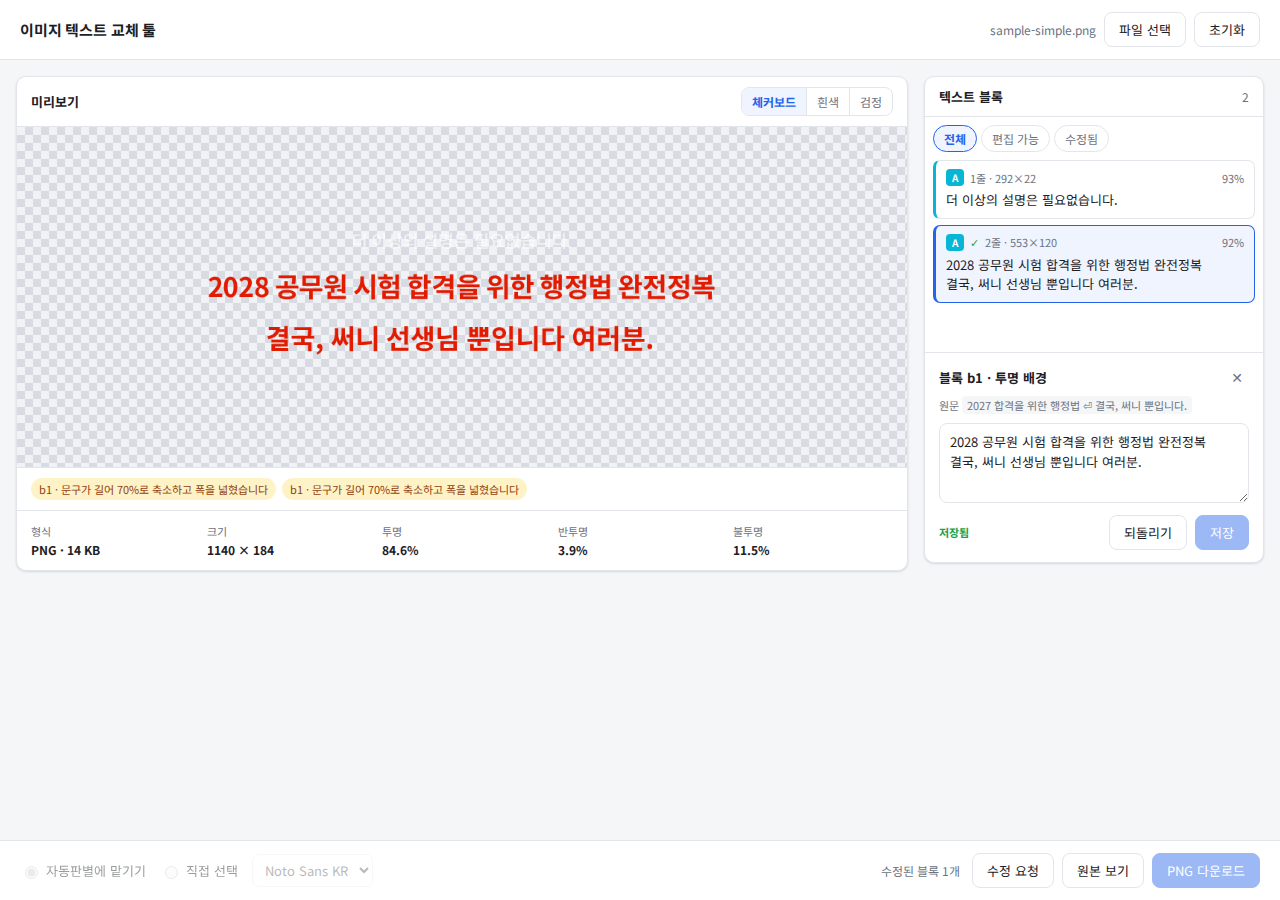
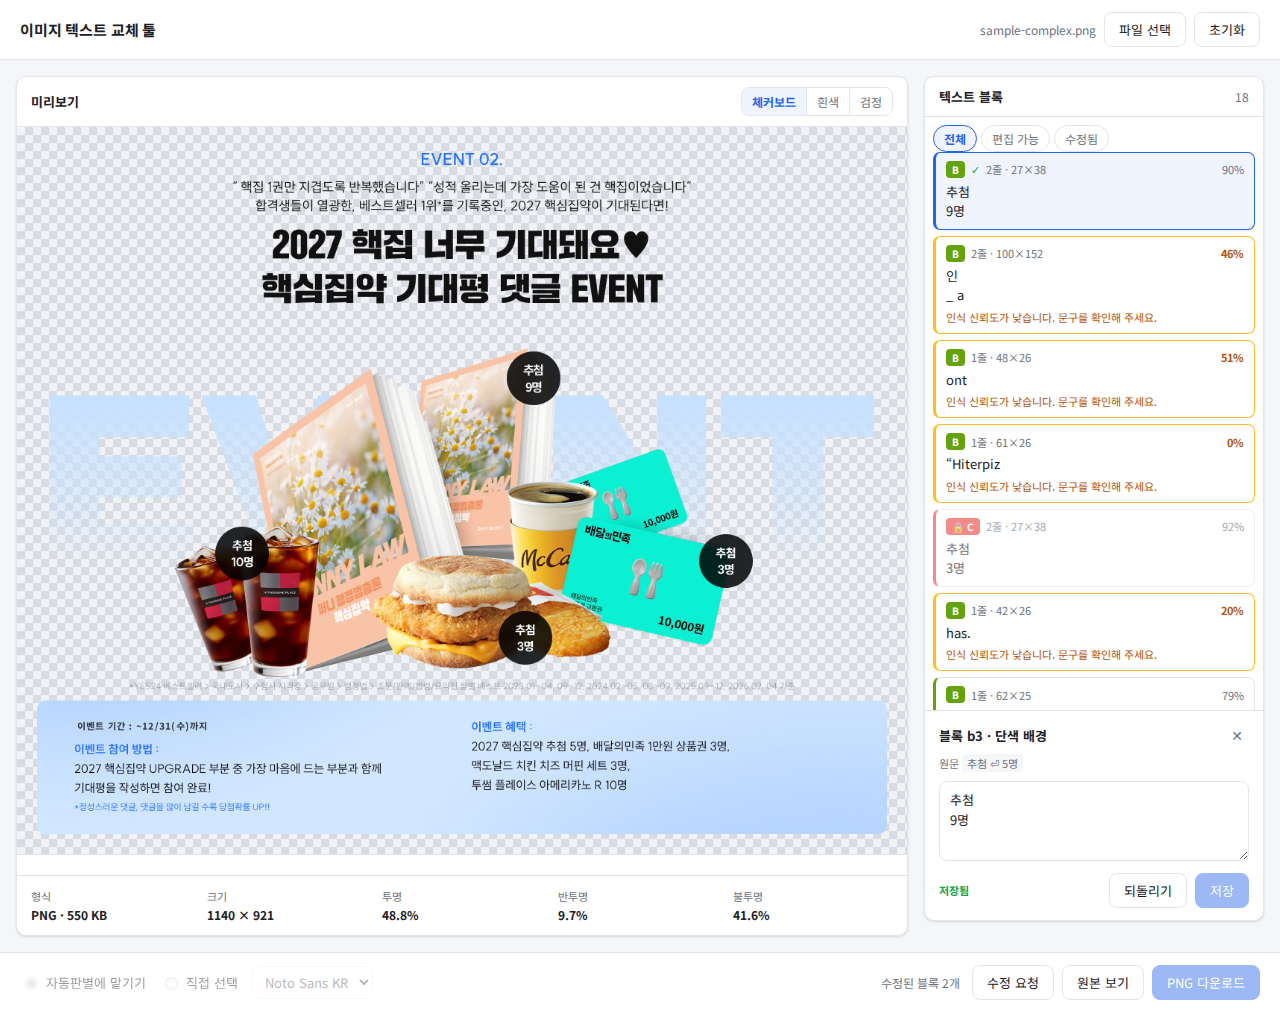
feat(M4.5): 합성 (유형 B) — 단색 배경 복원
파란 정보 박스와 검은 원 배지가 교체되고, 채운 자리에 이음매가 보이지
않는다. 검사 7건 전부 통과.

계획서의 "대표색 하나로 채우기"는 실물에서 통하지 않았다. 13장에 적어둔
리스크대로 파란 정보 박스가 완전 단색이 아니라 위치에 따라 RGB가 10 남짓
변해서, 한 색으로 칠하면 그 자리가 띠처럼 도드라진다. 줄 단위로 좌우
배경을 찾아 선형 보간하는 방식으로 바꿨다. 배경이 균일하면 대표색 채우기와
결과가 같고, 변하면 그 변화를 따라간다.

페더링은 넣지 않았다. 제거 마스크가 잉크보다 2px 부풀려져 있어 경계 바깥은
이미 순수 배경이고 채우는 값도 그 배경에서 보간한 색이라, 섞을 경계 자체가
없다.

색 추출 재수정:
- v0.7의 "배경과의 거리에 비례한 가중치"는 방향은 맞았지만 부족했다. 경계
  픽셀이 여전히 절반 넘는 무게를 받아 검은 원 위 흰 글자가 rgb(195,194,194)
  회색으로 잡혔다. 최대 거리의 65% 이상인 코어 픽셀만 쓰도록 바꾸니
  rgb(249,249,249) 로 정확해졌다
- 불투명도 승계는 유형 A에서만 한다. 유형 B는 불투명 배경 위에 그리므로
  알파를 낮추면 배경이 비쳐 색이 흐려진다

새 한계: 한 줄에 색이 두 가지면(파란 라벨 + 검은 값) 지배적인 색으로
통일된다. 줄 안에서 색으로 다시 쪼개는 것은 이번 버전 비목표다.

Claude-Session: https://claude.ai/code/session_018kgwYgKVhZt5kDDopb9ULA

diff --git a/js/compose.js b/js/compose.js
@@ -1,7 +1,9 @@
 /* compose.js — 글자 제거 · 렌더 · 합성 · 오버플로
  * PLAN.md 7-5, 7-6, 7-8
  *
- * M4는 유형 A(투명 배경)만 처리한다. 유형 B(단색 배경 채우기)는 M4.5.
+ * 유형 A(투명 배경)는 알파를 0으로, 유형 B(단색 배경)는 배경을 복원해 지운다.
+ * 그 외 경로(색 추출·피팅·자간·오버플로·렌더)는 두 유형이 전부 공유한다.
+ *
  * 수정하지 않은 블록은 손대지 않는다. 전 블록을 재렌더하면 사용자가 건드리지도
  * 않은 문구까지 폰트 근사 오차로 열화된다(7-6).
  */
@@ -16,24 +18,94 @@ const Compose = (() => {
   const MIN_SCALE = 0.7;    // 오버플로 2단계: 폰트 축소 하한
   const ALIGN_TOL = 4;      // 정렬 추정 허용 오차(px)
   const TRACK_MAX = 0.15;   // 자간 상한 (폰트 크기 대비)
+  const INK_FAR = 96;       // 유형 B 잉크 판정: 배경색과의 채널 절대차 합
+  const ANCHOR_MAX = 60;    // 배경 보간 시 좌우로 찾아볼 최대 거리(px)
 
-  /* ---------- 7-5 글자 제거 (유형 A) ---------- */
+  /* ---------- 7-5 글자 제거 ---------- */
 
-  function eraseBlock(d, W, H, block) {
+  /** 블록 안에서 글자 픽셀을 찾아 DILATE 만큼 부풀린 제거 마스크를 만든다.
+   *  안티에일리어싱 잔상이 남지 않도록 부풀리는 것이 핵심이다. */
+  function removalMask(d, W, H, block) {
     const {x0, y0, x1, y1} = block.bbox;
-    const del = [];
+    const bg = block.bgColor;
+    const m = new Uint8Array(W * H);
+    const isInk = (i) => block.tier === 'A'
+      ? d[i + 3] > ALPHA_T
+      : d[i + 3] > 200 && Math.abs(d[i] - bg[0]) + Math.abs(d[i + 1] - bg[1])
+        + Math.abs(d[i + 2] - bg[2]) > INK_FAR;
+
     for (let y = y0; y < y1; y++) {
       for (let x = x0; x < x1; x++) {
-        if (d[(y * W + x) * 4 + 3] <= ALPHA_T) continue;
+        if (!isInk((y * W + x) * 4)) continue;
         for (let dy = -DILATE; dy <= DILATE; dy++) {
           for (let dx = -DILATE; dx <= DILATE; dx++) {
             const nx = x + dx, ny = y + dy;
-            if (nx >= 0 && ny >= 0 && nx < W && ny < H) del.push(ny * W + nx);
+            if (nx >= 0 && ny >= 0 && nx < W && ny < H) m[ny * W + nx] = 1;
           }
         }
       }
     }
-    for (const i of del) d[i * 4 + 3] = 0;
+    return m;
+  }
+
+  /** 유형 A — 알파를 0으로. 배경 복원이 필요 없다. */
+  function eraseTransparent(d, W, mask) {
+    for (let i = 0; i < mask.length; i++) if (mask[i]) d[i * 4 + 3] = 0;
+  }
+
+  /**
+   * 유형 B — 배경을 복원해 덮는다.
+   *
+   * 계획서는 "대표색 하나로 채우기"였지만, 실측상 단색 배경도 위치에 따라 RGB가
+   * 10 남짓 변한다(파란 정보 박스). 한 색으로 칠하면 그 자리가 띠처럼 보인다.
+   * 대신 **줄 단위로 좌우 배경을 찾아 선형 보간**한다. 배경이 균일하면 결과가
+   * 대표색 채우기와 같아지고, 변하면 그 변화를 따라간다.
+   */
+  function erasePaint(d, W, H, mask, block) {
+    const {x0, y0, x1, y1} = block.bbox;
+    const bg = block.bgColor || [255, 255, 255];
+    const px = (x, y) => (y * W + x) * 4;
+
+    // 좌우로 마스크 밖 배경 픽셀을 찾는다. 못 찾으면 대표색으로 물러선다.
+    const anchor = (y, from, dir) => {
+      for (let k = 1; k <= ANCHOR_MAX; k++) {
+        const x = from + dir * k;
+        if (x < 0 || x >= W) break;
+        if (!mask[y * W + x]) {
+          const i = px(x, y);
+          if (d[i + 3] > 200) return [d[i], d[i + 1], d[i + 2]];
+        }
+      }
+      return null;
+    };
+
+    const pad = DILATE;
+    for (let y = Math.max(0, y0 - pad); y < Math.min(H, y1 + pad); y++) {
+      let x = Math.max(0, x0 - pad);
+      const end = Math.min(W, x1 + pad);
+      while (x < end) {
+        if (!mask[y * W + x]) { x++; continue; }
+        let run = x;
+        while (run < end && mask[y * W + run]) run++;
+        const L = anchor(y, x, -1) || bg;
+        const R = anchor(y, run - 1, 1) || L;
+        for (let k = x; k < run; k++) {
+          const t = run - x > 1 ? (k - x) / (run - x - 1) : 0;
+          const i = px(k, y);
+          d[i]     = Math.round(L[0] + (R[0] - L[0]) * t);
+          d[i + 1] = Math.round(L[1] + (R[1] - L[1]) * t);
+          d[i + 2] = Math.round(L[2] + (R[2] - L[2]) * t);
+          d[i + 3] = 255;
+        }
+        x = run;
+      }
+    }
+  }
+
+  function eraseBlock(d, W, H, block) {
+    const mask = removalMask(d, W, H, block);
+    if (block.tier === 'A') eraseTransparent(d, W, mask);
+    else erasePaint(d, W, H, mask, block);
   }
 
   /* ---------- 7-6 측정 · 피팅 ---------- */
@@ -167,11 +239,12 @@ const Compose = (() => {
     const targets = blocks.filter((b) => b.dirty && !b.locked);
     const notes = [];
 
-    // 유형 B 는 M4.5. 지금은 건드리지 않고 사유만 남긴다.
-    const deferred = targets.filter((b) => b.tier !== 'A');
-    const doable = targets.filter((b) => b.tier === 'A');
-    for (const b of deferred) {
-      notes.push({id: b.id, level: 'skip', text: '단색 배경 합성은 아직 지원하지 않습니다 (M4.5)'});
+    // 유형 B 인데 배경색을 못 구한 블록은 지울 방법이 없다.
+    const doable = targets.filter((b) => b.tier === 'A' || b.bgColor);
+    for (const b of targets) {
+      if (!doable.includes(b)) {
+        notes.push({id: b.id, level: 'skip', text: '배경색을 찾지 못해 교체할 수 없습니다'});
+      }
     }
 
     for (const b of doable) eraseBlock(out.data, W, H, b);
@@ -235,7 +308,9 @@ const Compose = (() => {
     g.addColorStop(0, `rgb(${block.colorTop.join(',')})`);
     g.addColorStop(1, `rgb(${block.colorBottom.join(',')})`);
     ctx.fillStyle = g;
-    ctx.globalAlpha = block.opacity ?? 1;    // 원본이 반투명 글자면 그대로 물려받는다
+    // 유형 A는 원본이 반투명 글자면 그대로 물려받는다. 유형 B는 이미 불투명
+    // 배경 위에 그리므로 알파를 낮추면 배경이 비쳐 색이 흐려진다.
+    ctx.globalAlpha = block.tier === 'A' ? (block.opacity ?? 1) : 1;
     ctx.fillText(text, x, y);
     ctx.globalAlpha = 1;
   }

diff --git a/tools/compose-probe.js b/tools/compose-probe.js
@@ -84,6 +84,47 @@ const CASES = [
     console.log(`       조치: ${r.notes.length ? r.notes.map((n) => n.text).join(' / ') : '없음'}`);
   }
 
+  // ---- 유형 B (단색 배경) ----
+  console.log('\n[유형 B — 단색 배경 채우기]');
+  await page.goto(`http://127.0.0.1:${PORT}/index.html`);
+  await page.setInputFiles('#fileInput', path.join(ROOT, 'assets/sample-complex.png'));
+  await page.waitForFunction(() => window.__app.state.imageData && !window.__app.state.analyzing,
+    null, {timeout: 300000});
+
+  const rb = await page.evaluate(async () => {
+    const app = window.__app, s = app.state;
+    // 파란 정보 박스 한 줄과 검은 원 배지를 함께 고친다.
+    const edits = [
+      {tier: 'B', match: /이벤트 기간/, text: '이벤트 기간 : ~12/31(수)까지'},
+      {tier: 'B', match: /추첨/, text: '추첨\n9명'},
+    ];
+    const done = [];
+    for (const e of edits) {
+      const b = s.blocks.find((x) => x.tier === e.tier && !x.locked && e.match.test(x.originalText || ''));
+      if (!b) continue;
+      app.selectBlock(b.id);
+      b.draft = e.text;
+      app.saveBlock();
+      done.push({id: b.id, from: b.originalText, to: e.text, bg: b.bgColor, box: b.bbox});
+    }
+    await app.runCompose();
+
+    const c2 = document.createElement('canvas');
+    c2.width = s.imageData.width; c2.height = s.imageData.height;
+    c2.getContext('2d').drawImage(s.result, 0, 0);
+    return {edits: done, notes: s.composeNotes, ms: s.timing.compose, png: c2.toDataURL('image/png')};
+  });
+
+  fs.writeFileSync(path.join(OUT, 'compose-유형B.png'),
+    Buffer.from(rb.png.split(',')[1], 'base64'));
+  for (const e of rb.edits) {
+    console.log(`  ${e.id}  "${(e.from || '').replace(/\n/g, ' ⏎ ')}"  →  "${e.to.replace(/\n/g, ' ⏎ ')}"  배경 rgb(${e.bg})`);
+  }
+  check('유형 B 블록이 건너뛰어지지 않는다',
+    !rb.notes.some((n) => n.level === 'skip'), rb.notes.map((n) => n.text).join(' / ') || '건너뜀 없음');
+  check('유형 B 편집이 실제로 적용됐다', rb.edits.length === 2, `${rb.edits.length}건`);
+  console.log(`       조치: ${rb.notes.length ? rb.notes.map((n) => n.text).join(' / ') : '없음'}  (${rb.ms}ms)`);
+
   // 원본/결과 토글
   const tg = await page.evaluate(() => {
     const app = window.__app;

diff --git a/js/detect.js b/js/detect.js
@@ -16,6 +16,7 @@ const Detect = (() => {
   const QUANT = 16;        // 색 양자화 단위
   const NEAR = 72;         // 배경색 근접 판정 (채널 절대차 합)
   const FAR = 96;          // 배경 대비 이물(글자) 판정
+  const CORE_R = 0.65;     // 글자 코어 판정: 최대 색거리 대비 비율
   const RLSA_X = 26;       // 가로 런렝스 평활 — 글자를 줄로 잇는다
   const RLSA_Y = 4;        // 세로 런렝스 평활
   const MIN_H = 7, MAX_H = 170;   // 텍스트 줄 높이 허용 범위
@@ -276,15 +277,21 @@ const Detect = (() => {
         const t = judgeTier(d, W, H, b, Math.max(4, Math.round((b.y1 - b.y0) * 0.35)));
         if (t.tier === 'A') continue;
         const ref = t.bgColor || bg;
+        const distAt = (x, y) => {
+          const i = (y * W + x) * 4;
+          return Math.abs(d[i] - ref[0]) + Math.abs(d[i + 1] - ref[1]) + Math.abs(d[i + 2] - ref[2]);
+        };
+        // 배경에서 가장 먼 픽셀들만 글자 '코어'로 본다. 거리에 비례한 가중치를
+        // 주면 경계 픽셀이 절반 넘는 무게를 받아 색이 배경 쪽으로 끌려간다
+        // (검은 원 위 흰 글자가 회색으로 잡히던 문제).
+        let maxD = 0;
+        for (let y = b.y0; y < b.y1; y++) for (let x = b.x0; x < b.x1; x++)
+          if (ink[y * W + x]) maxD = Math.max(maxD, distAt(x, y));
+        const coreD = maxD * CORE_R;
         lines.push({
           bbox: b, tier: t.tier, bgColor: ref,
-          color: extractColor(d, W, b, (x, y) => {
-            const q = y * W + x;
-            if (!ink[q]) return 0;
-            const i = q * 4;
-            const dist = Math.abs(d[i] - ref[0]) + Math.abs(d[i + 1] - ref[1]) + Math.abs(d[i + 2] - ref[2]);
-            return Math.min(1, dist / (FAR * 2));   // 배경에 가까운 경계 픽셀은 약하게
-          }),
+          color: extractColor(d, W, b, (x, y) =>
+            (ink[y * W + x] && distAt(x, y) >= coreD) ? 1 : 0),
         });
       }
     }

diff --git a/README.md b/README.md
@@ -14,7 +14,7 @@
 | M2 | 배경 유형 판정 · 블록 분리 · OCR | ✅ 완료 ([PLAN.md 부록 C](./PLAN.md#부록-c-m2-결과)) |
 | M3 | 블록 선택 · 편집 · 저장 | ✅ 완료 ([PLAN.md 부록 D](./PLAN.md#부록-d-m3-결과)) |
 | M4 | 합성 (유형 A) | ✅ 완료 ([PLAN.md 부록 E](./PLAN.md#부록-e-m4-결과)) |
-| M4.5 | 합성 (유형 B) | 예정 |
+| M4.5 | 합성 (유형 B) | ✅ 완료 ([PLAN.md 부록 F](./PLAN.md#부록-f-m45-결과)) |
 | M5 | 폰트 직접 선택 · 자동판별 | 예정 |
 | M6 | 다운로드 · GitHub Pages 배포 | 예정 |
 
